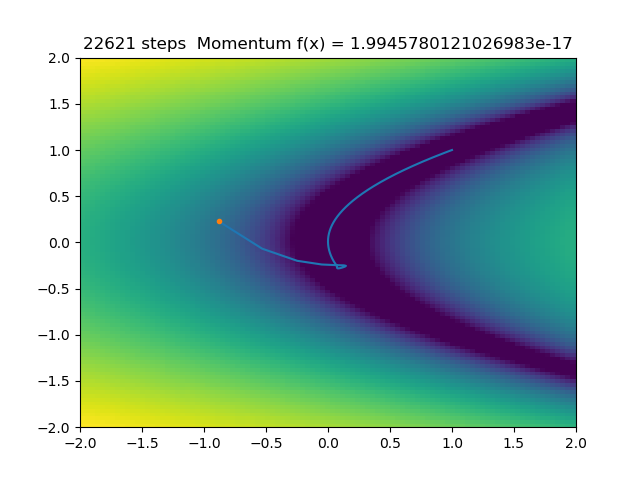
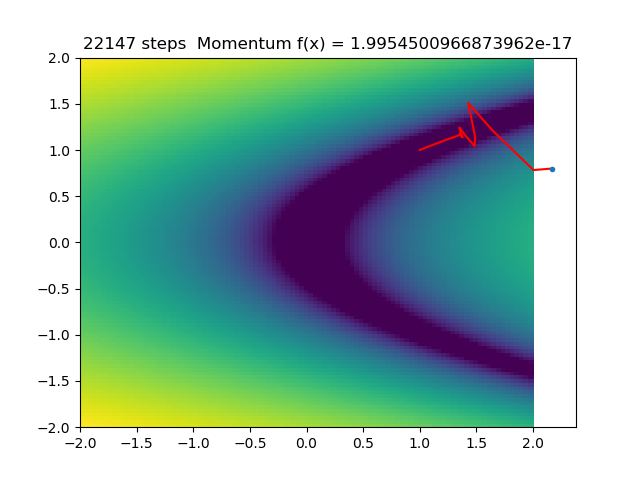
finishe dnow

diff --git a/RosenbrockMinimum.py b/RosenbrockMinimum.py
@@ -51,7 +51,7 @@ for i in range(20):
 
     plt.pcolor(X, Y, Z, norm=LogNorm(10))
 
-    plt.plot(history[1::2], history[0::2])#,# color="red")
+    plt.plot(history[1::2], history[0::2],color="red")
     plt.plot(history[1], history[0], ".")
     plt.title(str(a) + " steps  Momentum f(x) = " + str(f(xy[0], xy[1])))
     print(str(f(xy[0], xy[1])))
